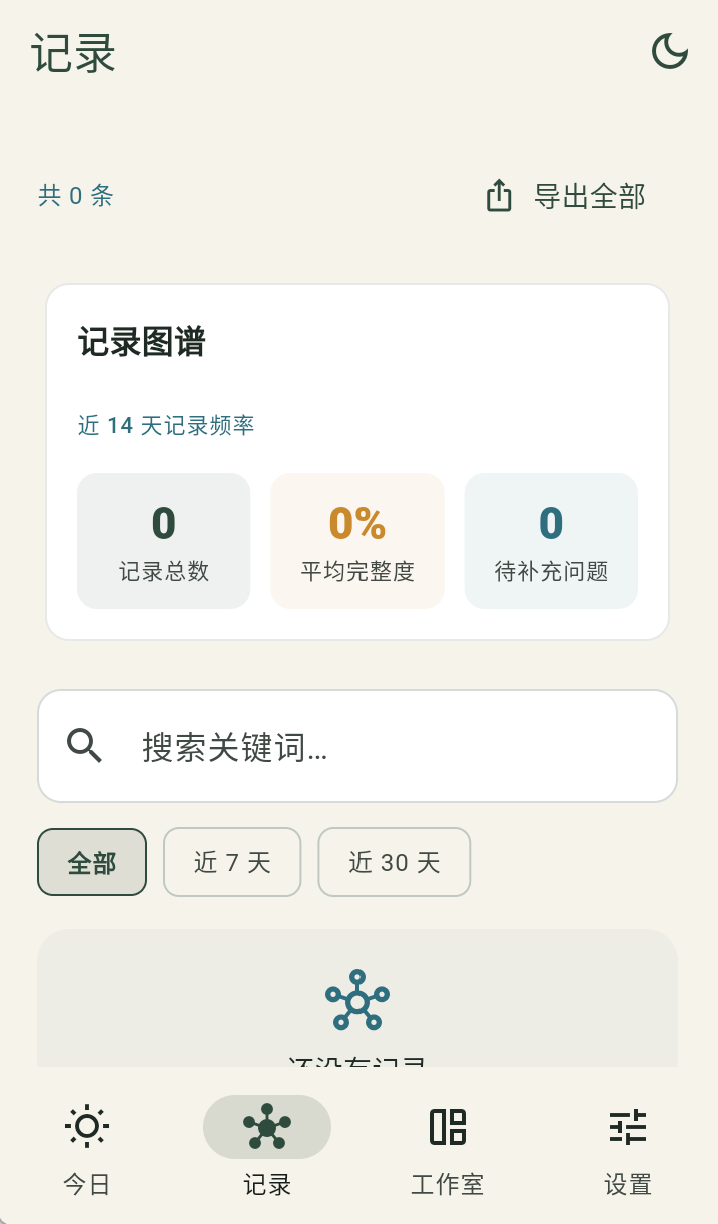
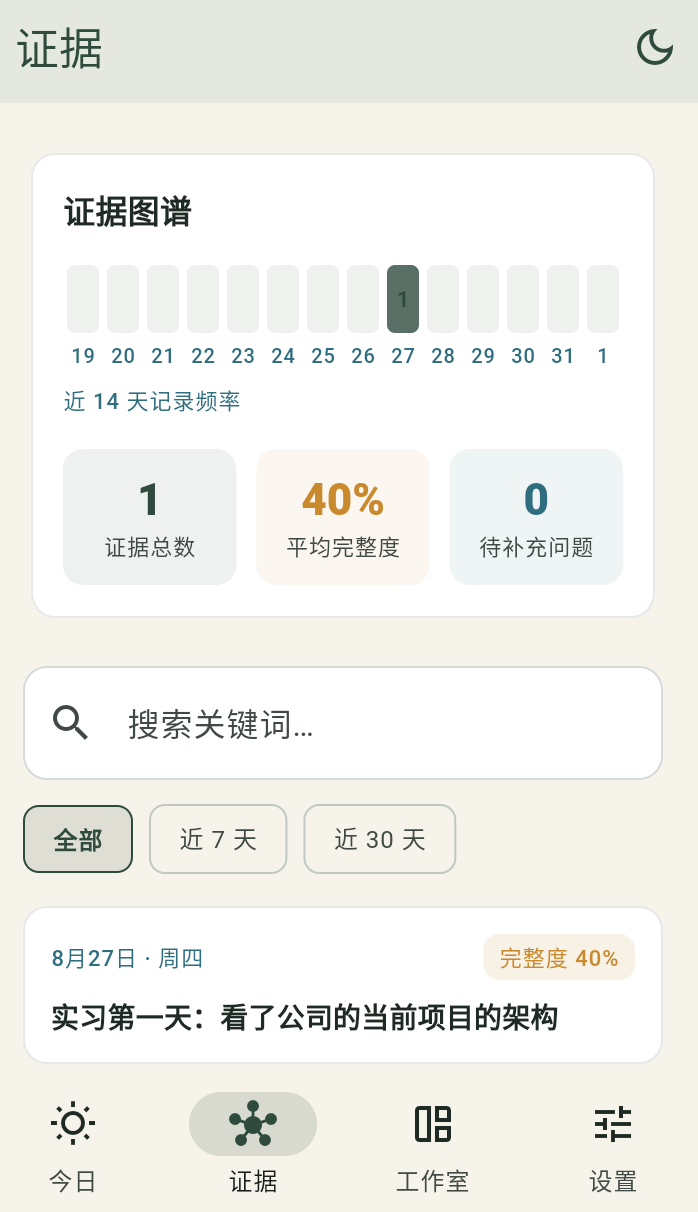
Revert "feat: replace hero screenshots with v1.2.2 captures"
This reverts commit c457822465f25c676b570b9d0ec829f46de23923.

diff --git a/_templates/index.html b/_templates/index.html
@@ -19,16 +19,16 @@
   <!-- ③ 手机主视觉 -->
   <section class="lh-screens" aria-label="留痕应用界面截图" data-i18n-aria="common.home.screensAria">
     <figure class="lh-phone">
-      <img src="{{ base }}static/screens/journal.png" alt="今日页截图" width="720" height="1220" fetchpriority="high">
+      <img src="{{ base }}static/screens/journal.png" alt="今日记录页截图" width="698" height="1210" loading="lazy">
     </figure>
     <figure class="lh-phone">
-      <img src="{{ base }}static/screens/map.png" alt="记录页截图" width="718" height="1224" loading="lazy">
+      <img src="{{ base }}static/screens/map.png" alt="证据图谱页截图" width="698" height="1212" loading="lazy">
     </figure>
     <figure class="lh-phone">
-      <img src="{{ base }}static/screens/studio.png" alt="工作室页截图" width="718" height="1228" loading="lazy">
+      <img src="{{ base }}static/screens/studio.png" alt="工作室页截图" width="706" height="1202" loading="lazy">
     </figure>
     <figure class="lh-phone">
-      <img src="{{ base }}static/screens/settings.png" alt="设置页截图" width="714" height="1230" loading="lazy">
+      <img src="{{ base }}static/screens/settings.png" alt="设置页截图" width="692" height="1214" loading="lazy">
     </figure>
   </section>
 

diff --git a/doc/assets-checklist.md b/doc/assets-checklist.md
@@ -7,10 +7,10 @@
 |---|---|---|---|---|
 | 1 | 水滴 emblem Logo | SVG | ✅ 已定稿接入（2026-09-01） | 源图 `doc/logo-source/`，矢量 `_static/liuhen-logo.svg` |
 | 2 | Favicon 全套 | 16/32/180/192/512/ico | ⚪ 已生成（Logo 定稿后重出） | — |
-| 3 | 截图·今日 | 真机 PNG | ✅ 已换新（2026-09-04，v1.2.2） | `_static/screens/journal.png` ← `D:\胡衍科\照片\留痕\首页.png` |
-| 4 | 截图·记录 | 真机 PNG | ✅ 已换新（2026-09-04，v1.2.2） | `_static/screens/map.png` ← `记录.png`（底栏已从「证据」改为「记录」） |
-| 5 | 截图·工作室 | 真机 PNG | ✅ 已换新（2026-09-04，v1.2.2） | `_static/screens/studio.png` ← `工作室.png` |
-| 6 | 截图·设置 | 真机 PNG | ✅ 已换新（2026-09-04，v1.2.2） | `_static/screens/settings.png` ← `设置.png`（关于页显示 v1.2.2 · 留痕） |
+| 3 | 截图·今日记录 | 真机 PNG | ✅ 已接入（2026-09-01） | `_static/screens/journal.png` |
+| 4 | 截图·证据图谱 | 真机 PNG | ✅ 已接入（2026-09-01） | `_static/screens/map.png` |
+| 5 | 截图·工作室 | 真机 PNG | ✅ 已接入（2026-09-01） | `_static/screens/studio.png` |
+| 6 | 截图·设置 | 真机 PNG | ✅ 已接入（2026-09-01） | `_static/screens/settings.png`（替代原「每日一问」槽位） |
 | 7 | 深色版截图 ×4 | app 深色主题 | 🟡 可选 | 缺省亮色通吃 |
 | 8 | OG 分享图 | 1200×630 PNG | 🟡 可选（可代合成） | 文章 OG 已由构建管线自动生成 |
 | 9 | 特性图标 ×6 | Lucide 内联 | ⚪ 已接入 | lock / message-circle-question / git-fork / file-text / key-round / feather |
